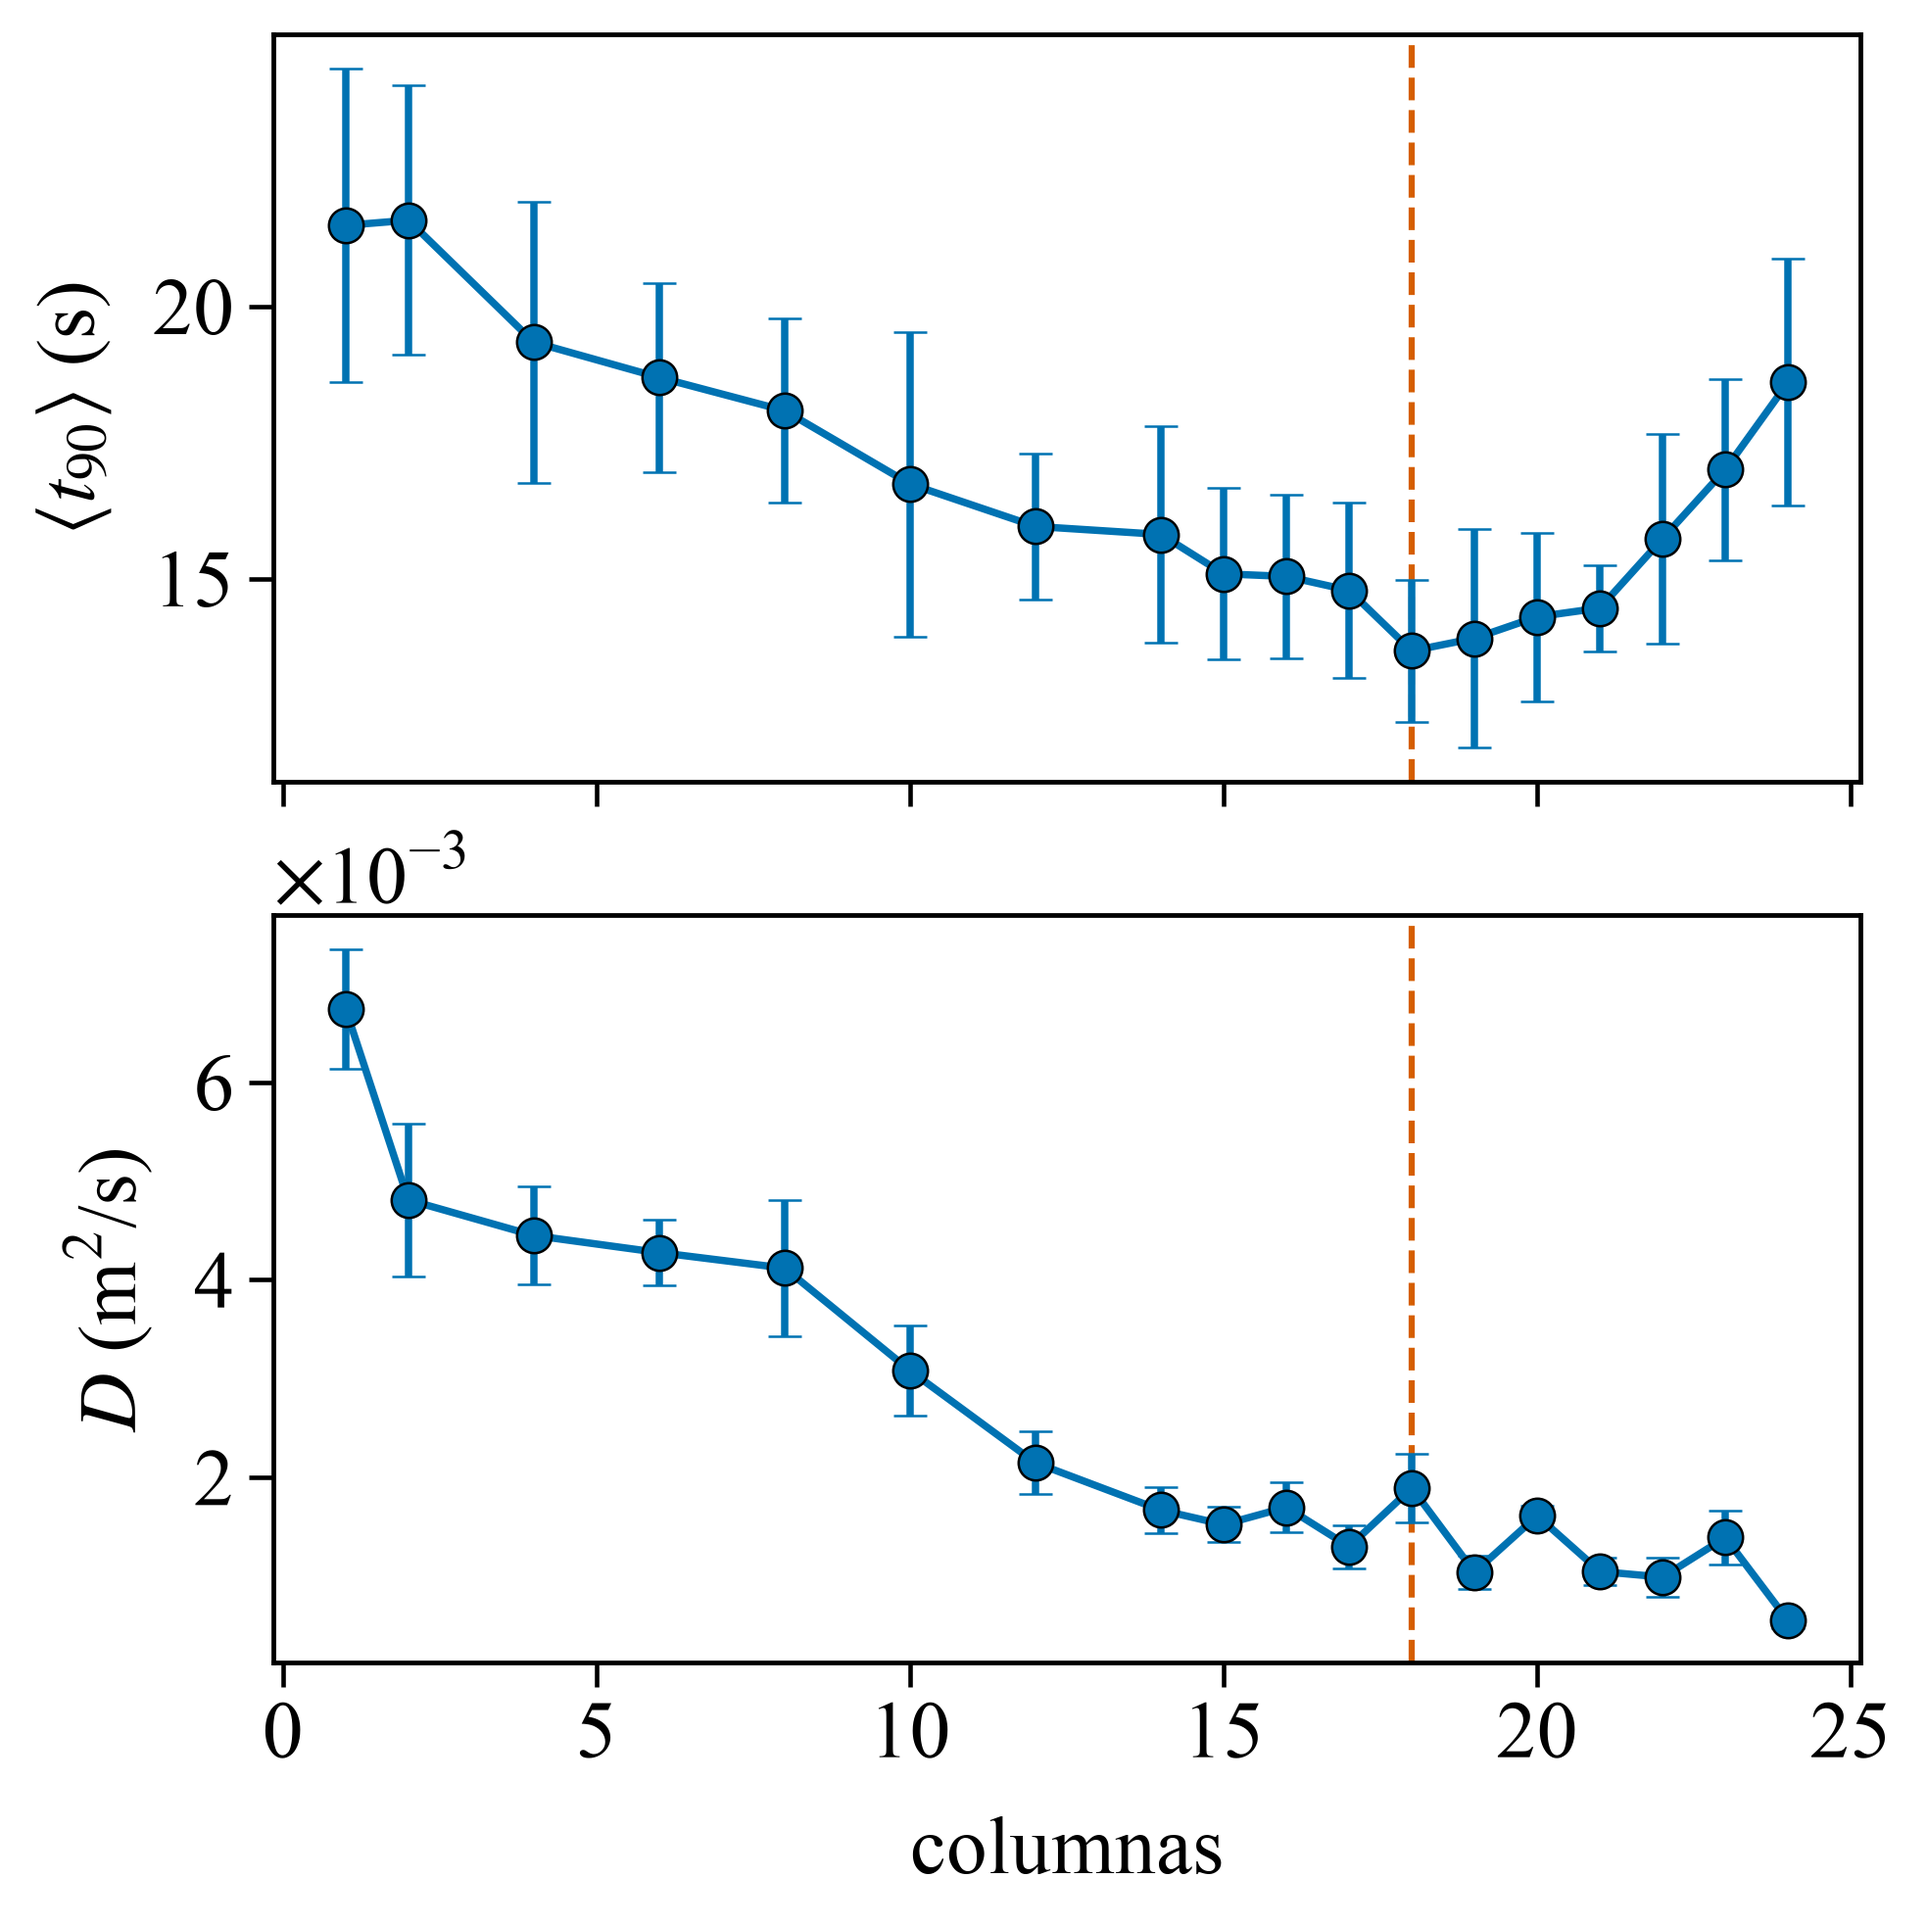
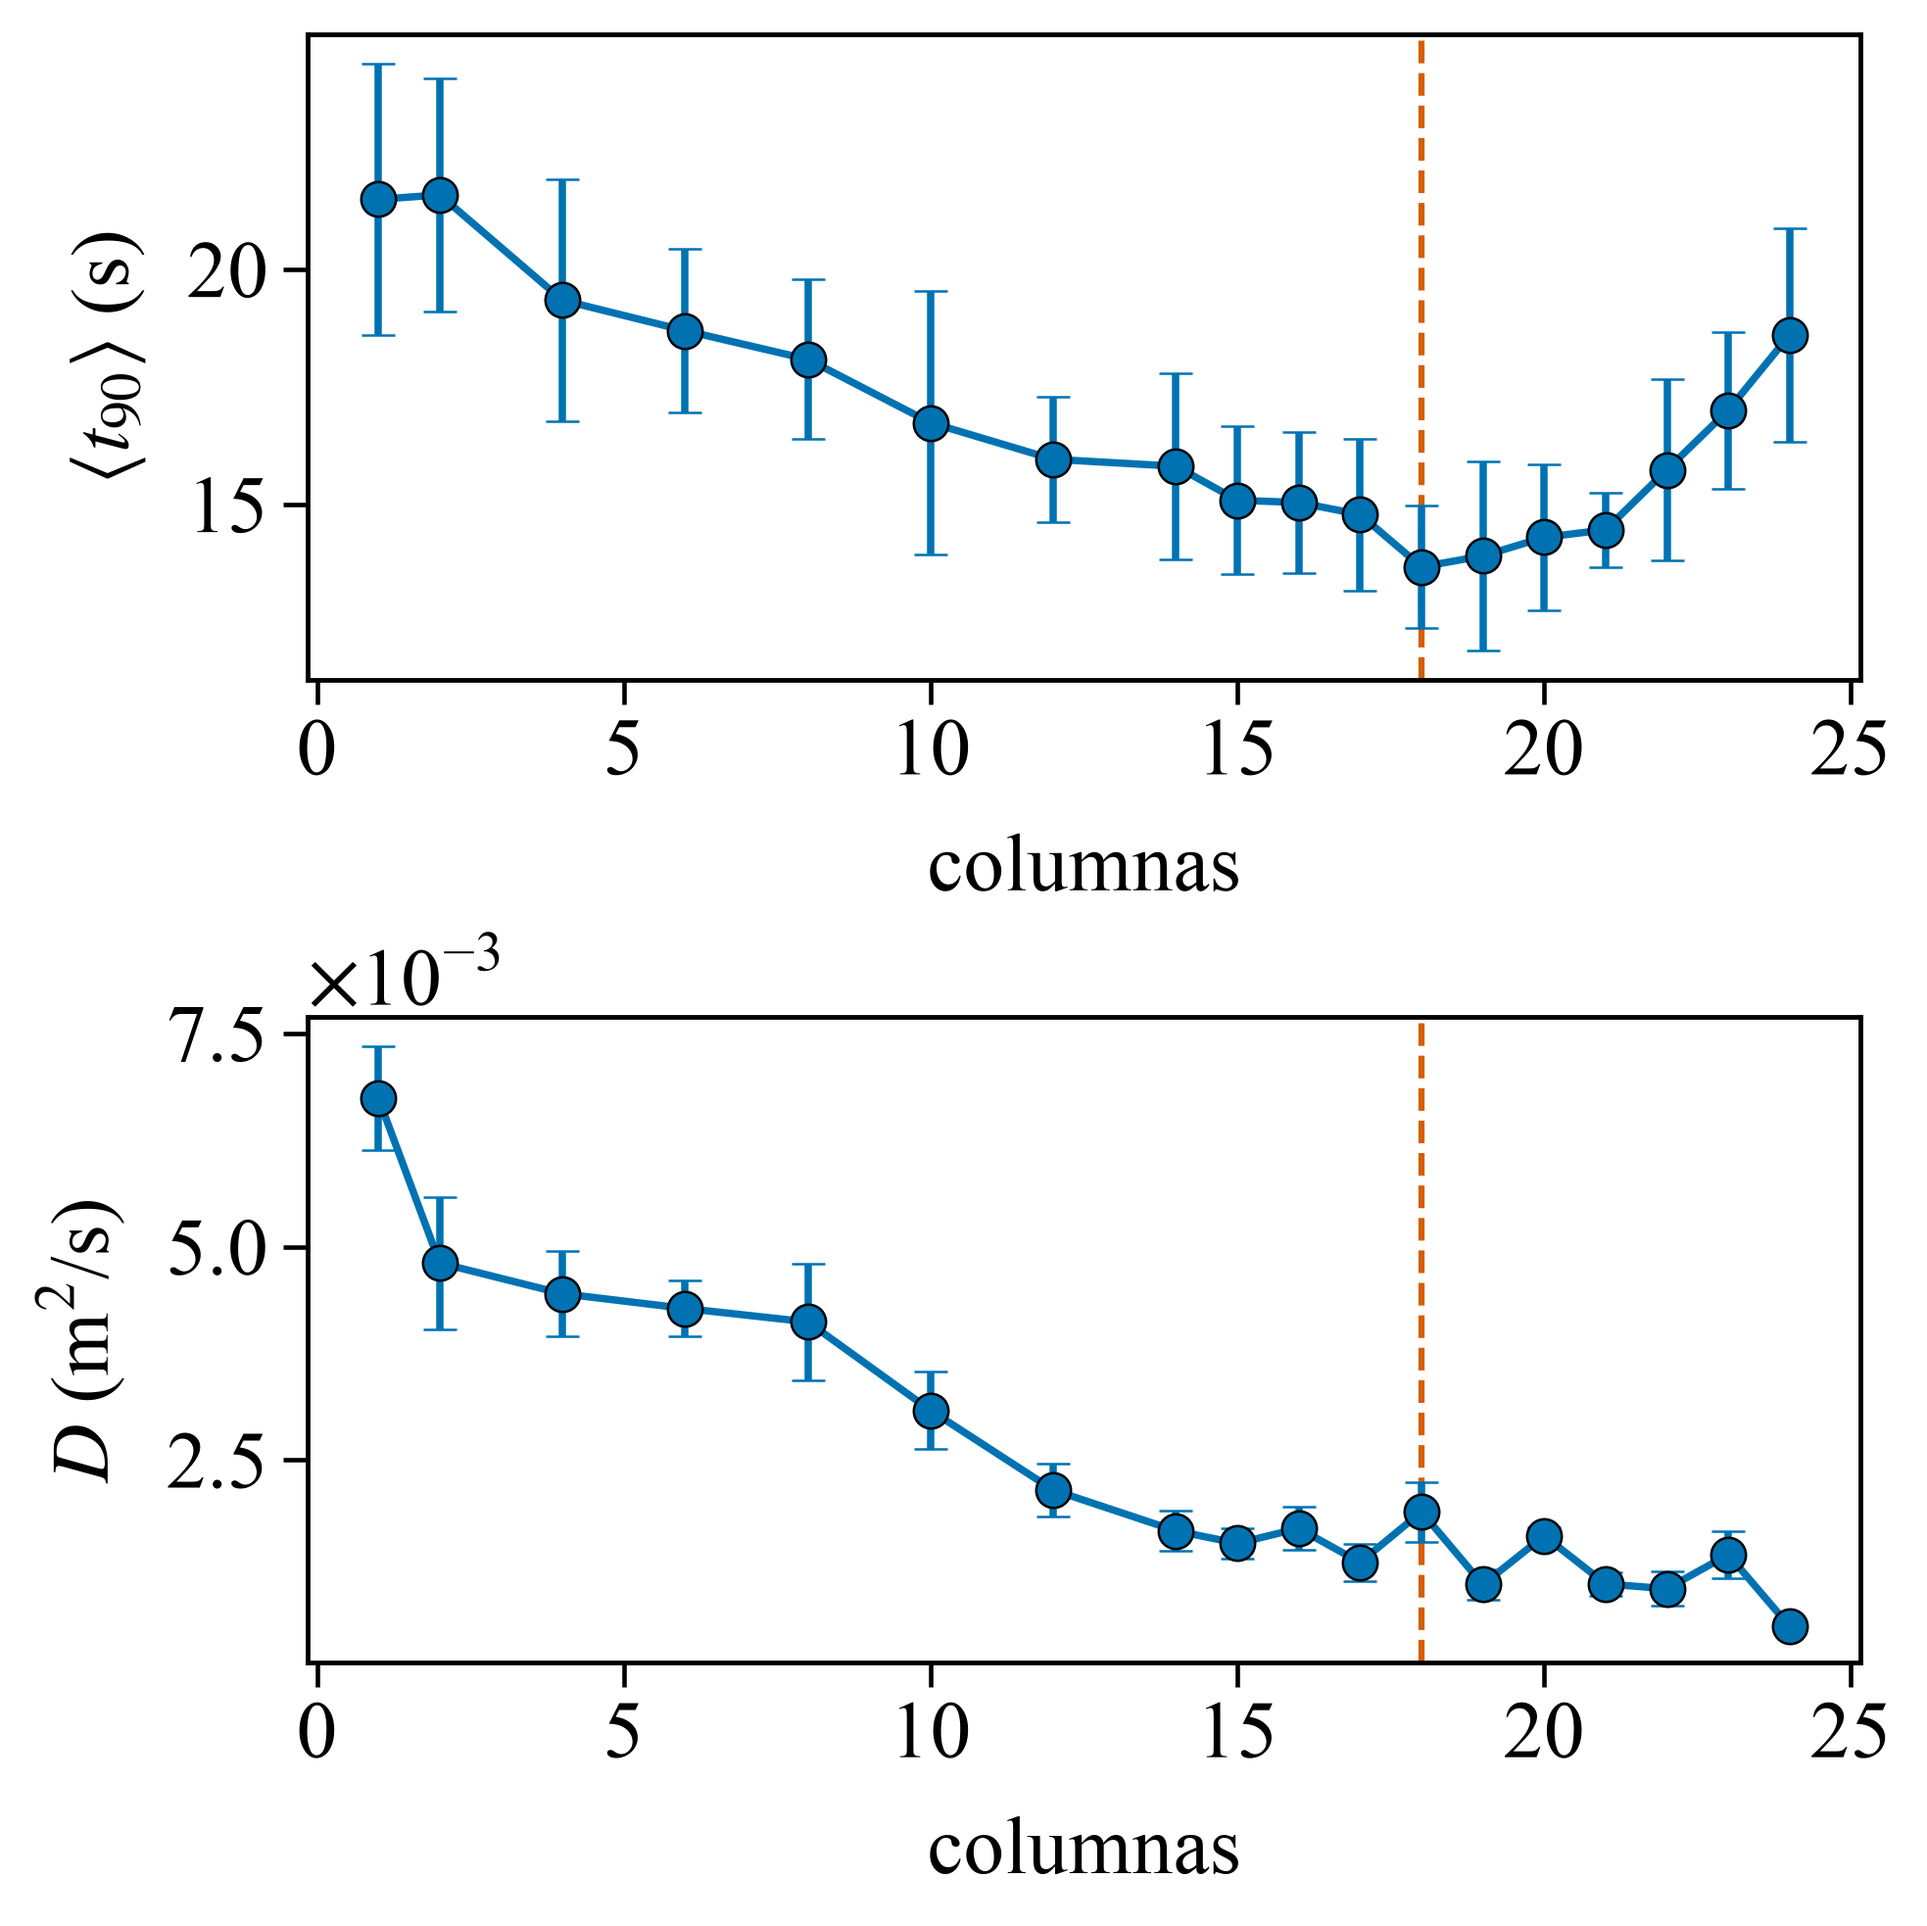
update t90 vs columnas x axis

diff --git a/python/dcm_barrido.py b/python/dcm_barrido.py
@@ -170,8 +170,8 @@ def cmd_report(te: list[str]) -> None:
         ax.errorbar(cs, [r[i] for r in rows], yerr=[r[i + 1] for r in rows], color=BLUE, marker="o",
                     markeredgecolor="black", markeredgewidth=0.6, capsize=4)
         ax.axvline(best[0], color=VERMILLION, ls="--", lw=1.5, zorder=0)
-        style_axes(ax, "columnas" if ax is bottom else "", ylabel)
-    top.tick_params(labelbottom=False)
+        style_axes(ax, "columnas", ylabel)
+    top.tick_params(labelbottom=True)
     save_figure(fig, OUT / "t90_d_vs_columnas.png")
     shutil.copyfile(OUT / "t90_d_vs_columnas.png", ROOT / "docs" / "presentation" / "images" / "t90_d_vs_columnas.png")
     print("figuras en", OUT)
